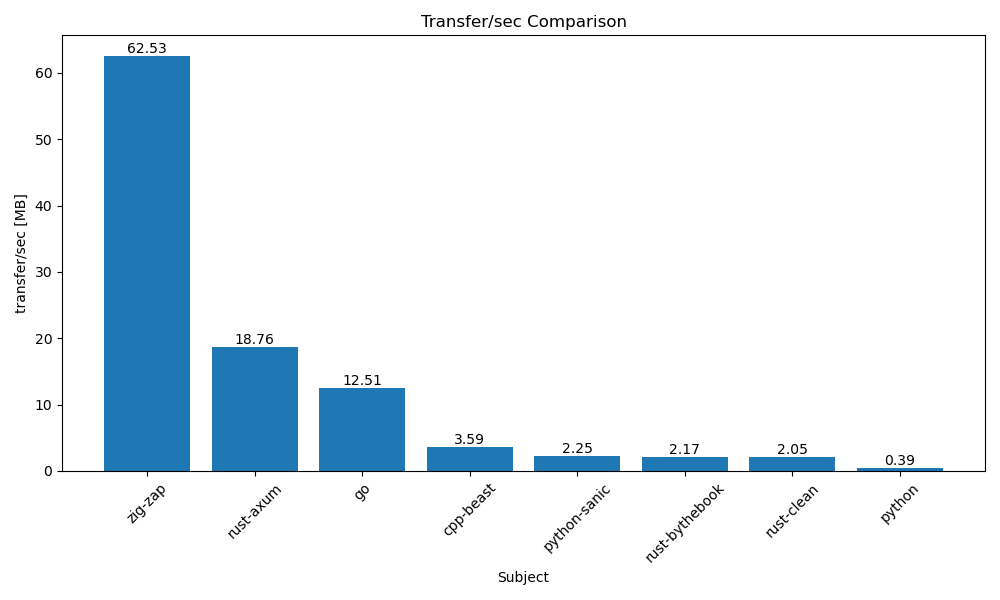
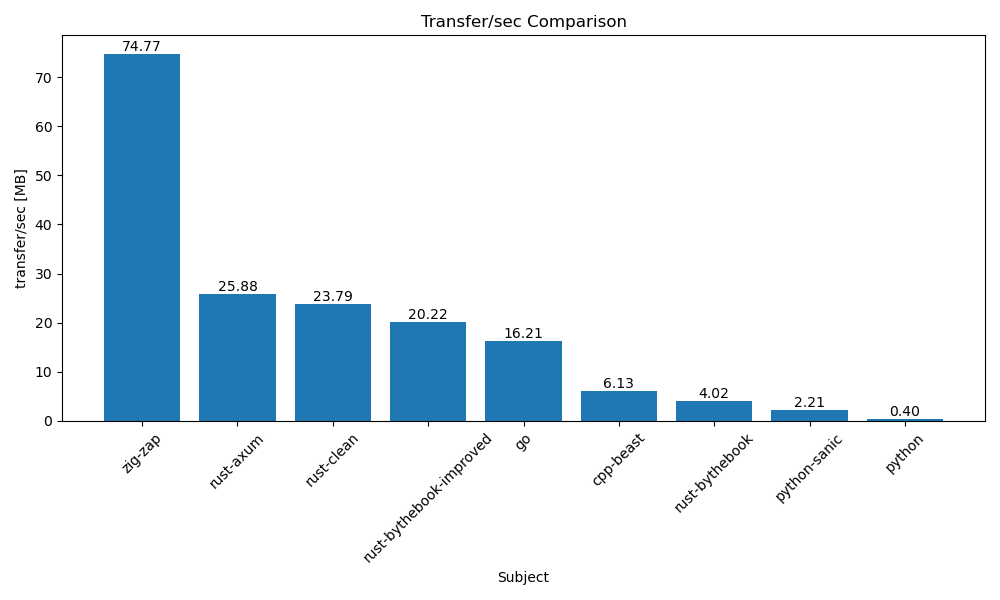
updated blazingly-fast.md

diff --git a/blazingly-fast.md b/blazingly-fast.md
@@ -85,6 +85,20 @@ potentially excelling in certain benchmarks. My main concern was whether Zap,
 given its current level of abstraction, could compete with standard web servers.
 This question has been answered, and I see no need for further benchmarks.
 
+So far, we have the following benchmark subjects (implementations) which you'll
+find in the graphs below:
+
+- **zig-zap** : ZAP implementation
+- **go** : GO implementation
+- **python** : Python implementation
+- **python-sanic** : Python implementation with sanic framework
+- **rust-bythebook** : Rust example from the Rust book (not representative)
+- **rust-bythebook-improved** : Improved version of the by-the-book code (thx @alexpyattaev)
+- **rust-clean** : A clean, straight-forward Rust implementation (thx @alexpyattaev)
+- **rust-axum** : Rust implementation using the axum framework (realistic)
+- **(csharp)** : CSharp implementation (thx @leo-costa)
+- **cpp-beast** : A C++ implementation using boost::beast (thx @kassane)
+
 
 ## The computer makes the difference
 
@@ -169,7 +183,7 @@ Vulnerabilities:
   Tsx async abort:       Not affected
 ```
 
-### Workstation at work -- out of date (fixed soon)
+### Workstation at work
 
 A beast. Many cores (which we don't use). 
 
@@ -247,7 +261,7 @@ Vulnerabilities:
 ```
 
 
-### Work Laptop -- out of date (fixed soon)
+### Work Laptop
 
 Very strange. It absolutely **LOVES** zap 🤣!
 
